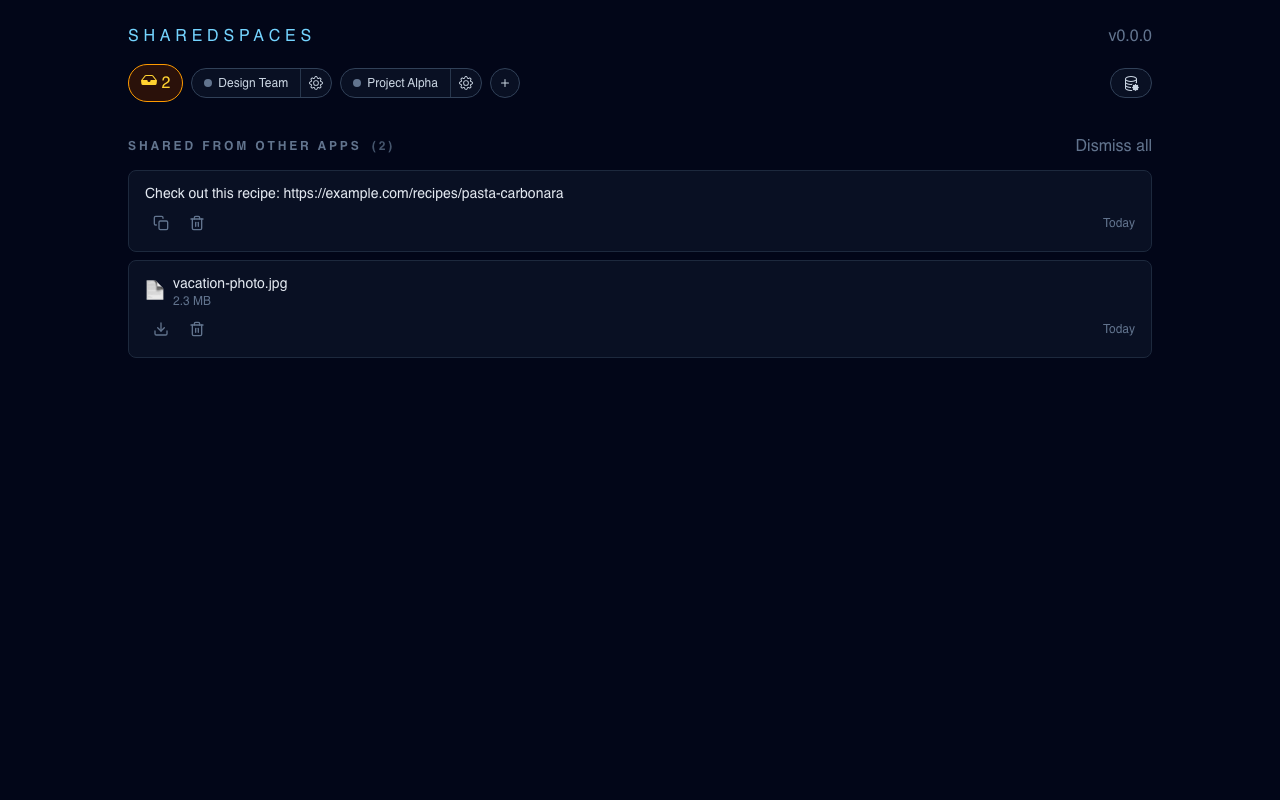
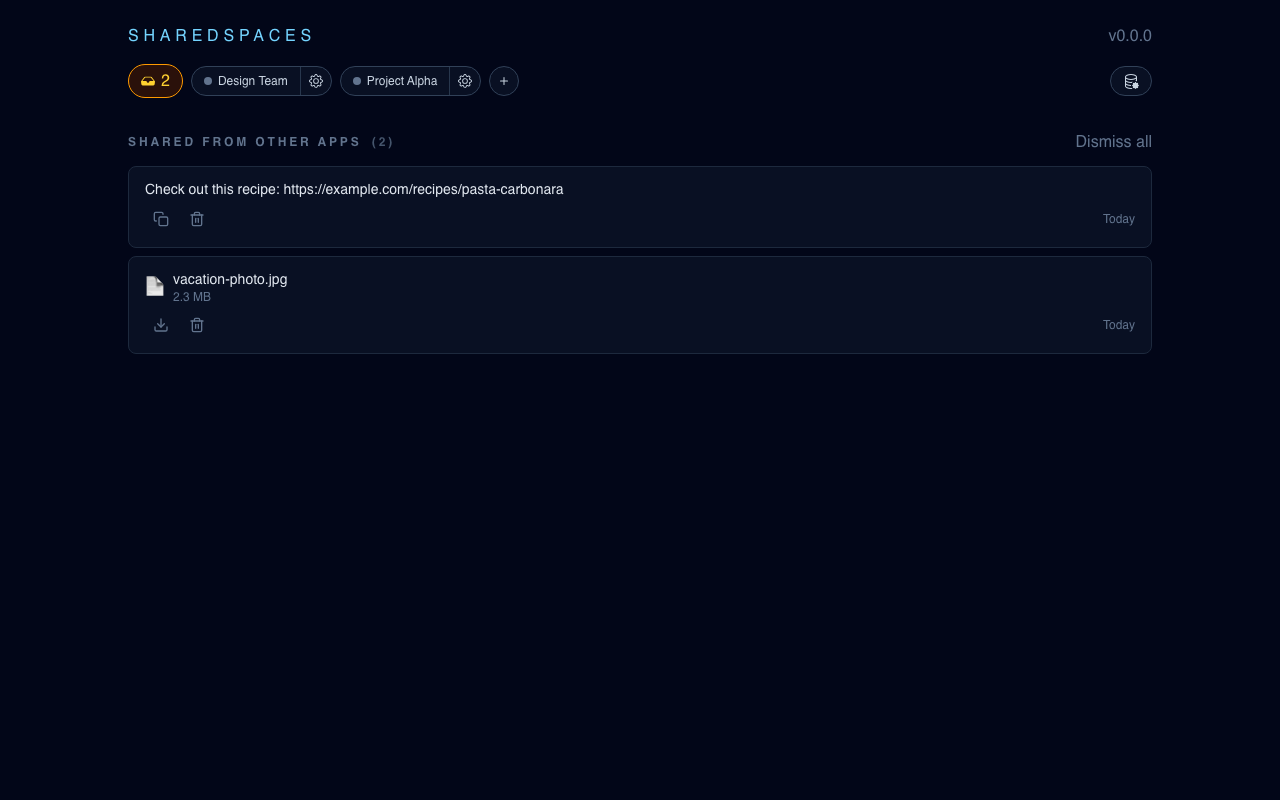
fix(client): align pending shares pill height with space pills
The pending shares pill (amber, with inbox icon) was visually taller
than adjacent space pills. Two issues contributed:

- The icon used the full 16px SVG (w-4 h-4) instead of the 14px variant
- The button had py-1.5 padding which combined with the icon height
  exceeded the space pills' visual height

Switch to inboxFillSvg14 with w-3.5 h-3.5 and reduce vertical padding
to py-1 to match the height of standard space pills.

diff --git a/src/SharedSpaces.Client/src/app-shell.ts b/src/SharedSpaces.Client/src/app-shell.ts
@@ -480,13 +480,13 @@ export class AppShell extends BaseElement {
                 ? html`
                   <button
                     @click=${() => { this.view = 'pending-shares'; }}
-                    class="${this.pillBase} ${this.view === 'pending-shares'
+                    class="rounded-full border px-3 py-1 text-xs font-medium transition inline-flex items-center gap-1.5 ${this.view === 'pending-shares'
                       ? 'border-amber-500 bg-amber-950/60 text-amber-300'
                       : 'border-amber-500/50 bg-amber-950/40 text-amber-300 hover:border-amber-400 hover:bg-amber-950/60'}"
                     title="Items shared from other apps"
                     data-testid="pending-shares-pill"
                   >
-                    <span class="inline-flex w-4 h-4 shrink-0">${unsafeHTML(inboxFillSvg)}</span> ${this.pendingShareCount}
+                    <span class="inline-flex w-3.5 h-3.5 shrink-0">${unsafeHTML(inboxFillSvg14)}</span> ${this.pendingShareCount}
                   </button>
                 `
                 : nothing}
